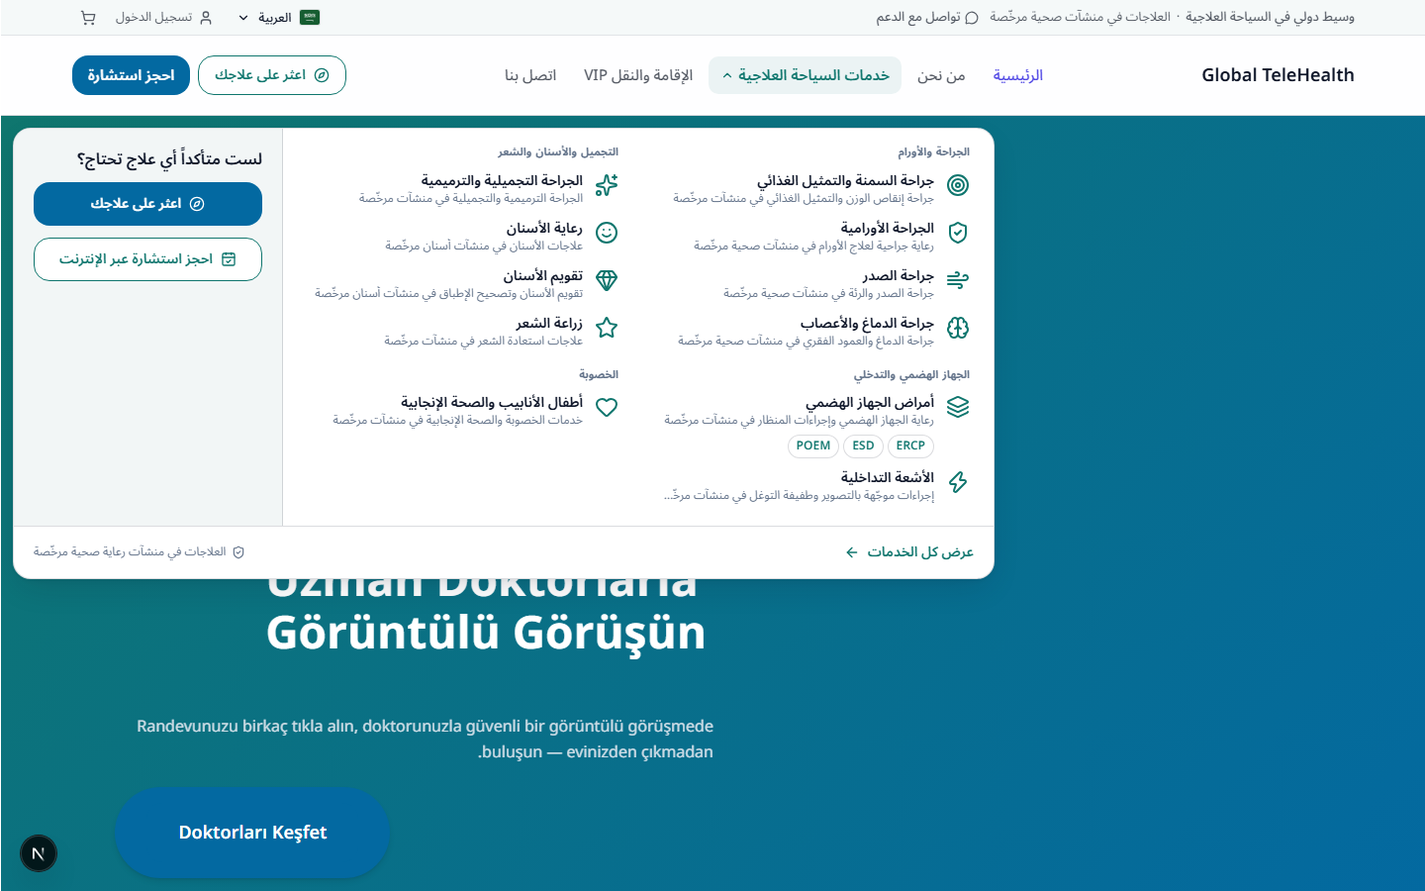
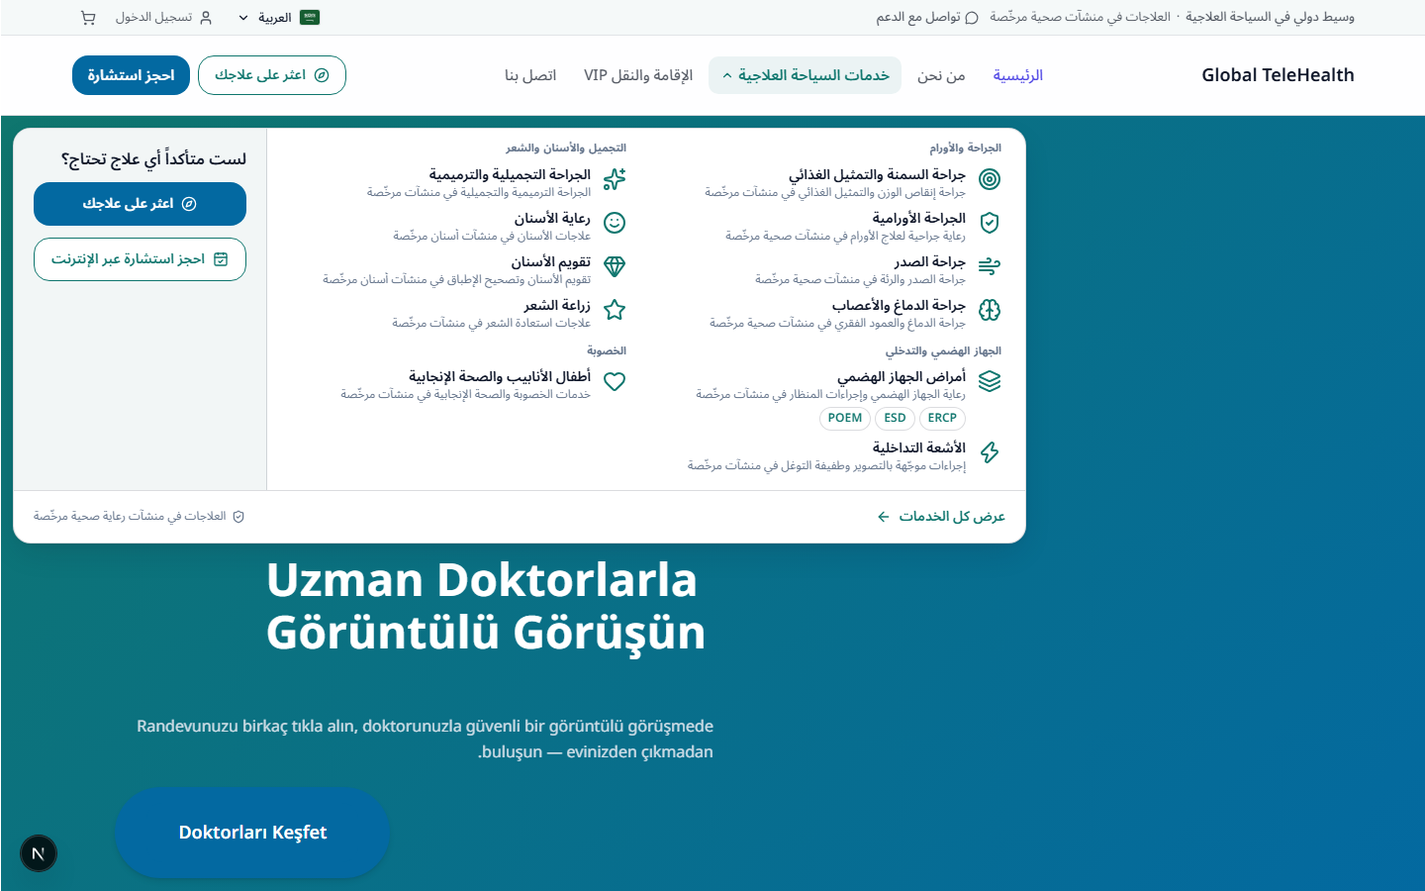
docs(ai): Paket AI raporu, yenilenen ekran goruntuleri ve e2e eklemeleri (1024 px yukseklik, mobil renk)

diff --git a/frontend/tests/e2e/ai-services-menu.spec.ts b/frontend/tests/e2e/ai-services-menu.spec.ts
@@ -254,6 +254,63 @@ test.describe("Mobil (390)", () => {
   });
 });
 
+test.describe("Mega menü — 1024x768 ölçüm ve açıklama satırları", () => {
+  test.use({ viewport: { width: 1024, height: 768 } });
+  for (const [label, path] of [["EN", "/"], ["AR", "/ar"]] as const) {
+    test(`${label}: yükseklik ≤ 520, açıklamalar en çok 2 satır ve kırpılmıyor, viewport'a sığar`, async ({ page }, testInfo) => {
+      await openMegaMenu(page, path);
+      const h = await settledMenuHeight(page);
+      testInfo.annotations.push({ type: `menu-height-${label}-1024`, description: String(h) });
+      console.log(`[AI] mega menü yüksekliği ${label} 1024x768: ${h}px`);
+      expect(h).toBeLessThanOrEqual(520);
+      const box = (await page.getByTestId("services-mega-menu").boundingBox())!;
+      expect(box.x).toBeGreaterThanOrEqual(0);
+      expect(box.x + box.width).toBeLessThanOrEqual(1024);
+      expect(box.y + box.height).toBeLessThanOrEqual(768);
+      const lines = await page.getByTestId("services-item").evaluateAll((els) =>
+        els.map((el) => {
+          const d = el.querySelector("a > span:nth-of-type(2) > span:nth-of-type(2)") as HTMLElement | null;
+          if (!d) return { lines: 0, clipped: false };
+          const lh = parseFloat(getComputedStyle(d).lineHeight);
+          return { lines: Math.round(d.getBoundingClientRect().height / lh), clipped: d.scrollHeight - d.clientHeight > 1 };
+        })
+      );
+      console.log(`[AI] ${label} 1024 açıklama satırları: ${lines.map((l) => l.lines).join(",")}`);
+      expect(lines.every((l) => l.lines >= 1 && l.lines <= 2)).toBe(true);
+      const overflow = await page.getByTestId("services-mega-groups").evaluate((el) => el.scrollHeight - el.clientHeight);
+      expect(overflow).toBeLessThanOrEqual(1);
+    });
+  }
+});
+
+test.describe("Mobil menü — site renkleri", () => {
+  test("'Book a consultation' dolgulu, 'Find your treatment' çerçevesi masaüstü header ile aynı site renginde", async ({ page }) => {
+    test.setTimeout(120_000);
+    await page.setViewportSize({ width: 1440, height: 900 });
+    await page.goto("/");
+    const desk = await page.evaluate(() => {
+      const f = getComputedStyle(document.querySelector('[data-testid="header-find-treatment"]')!);
+      const b = getComputedStyle(document.querySelector('[data-testid="header-book-consultation"]')!);
+      return { findBorder: f.borderTopColor, findText: f.color, bookBg: b.backgroundColor, bookText: b.color };
+    });
+    await page.setViewportSize({ width: 390, height: 844 });
+    await page.reload();
+    await page.getByRole("button", { name: /menu/i }).first().click();
+    await expect(page.getByTestId("mobile-menu-book-consultation")).toBeVisible();
+    const mob = await page.evaluate(() => {
+      const f = getComputedStyle(document.querySelector('[data-testid="mobile-menu-find-treatment"]')!);
+      const b = getComputedStyle(document.querySelector('[data-testid="mobile-menu-book-consultation"]')!);
+      return { findBorder: f.borderTopColor, findText: f.color, bookBg: b.backgroundColor, bookText: b.color };
+    });
+    console.log(`[AI] masaüstü ${JSON.stringify(desk)}\n[AI] mobil ${JSON.stringify(mob)}`);
+    expect(mob.bookBg).not.toBe("rgba(0, 0, 0, 0)");
+    expect(mob.bookBg).toBe(desk.bookBg);
+    expect(mob.bookText).toBe(desk.bookText);
+    expect(mob.findBorder).toBe(desk.findBorder);
+    expect(mob.findText).toBe(desk.findText);
+  });
+});
+
 test.describe("/specialties — Health Tourism Services sayfası", () => {
   test("süreç şeridi (6 adım), gruplu bölümler, kartlarda Book/Request bağlantıları, çipler; Specialist/Türkçe yok", async ({ page }) => {
     await page.setViewportSize({ width: 1440, height: 900 });

diff --git a/frontend/tests/e2e/ai-services-screens.spec.ts b/frontend/tests/e2e/ai-services-screens.spec.ts
@@ -23,8 +23,8 @@ test.describe.configure({ mode: "serial" });
 
 const OUT = path.resolve(__dirname, "../../../docs/prompts/2026-11-02-AI-ekran");
 const LANGS = [
-  { code: "en", prefix: "", topic: /Obesity \/ weight/i, redFlagQuery: "chest pain" },
-  { code: "ar", prefix: "/ar", topic: /./, redFlagQuery: "chest pain" },
+  { code: "en", prefix: "", topic: /Obesity \/ weight/i, noMatch: /Dizziness/i, redFlagQuery: "chest pain" },
+  { code: "ar", prefix: "/ar", topic: /./, noMatch: /./, redFlagQuery: "chest pain" },
 ] as const;
 const DEVICES = [
   { name: "masaustu", width: 1440, height: 900 },
@@ -124,6 +124,17 @@ for (const lang of LANGS) {
         await walkWizardToResult(page);
         await expect(page.getByTestId("matcher-specialty-card").first()).toBeVisible();
         await shot(page, `${prefix}-04-find-your-treatment-sonuc`, true);
+      });
+
+      test("06 Find your treatment eşleşme yok", async ({ page }) => {
+        test.skip(device.name !== "masaustu", "yalnızca masaüstü");
+        test.setTimeout(120_000);
+        await page.goto(`${lang.prefix}/find-your-treatment`);
+        await expect(page.getByTestId("physician-matcher")).toBeVisible();
+        await pickTopicBySearch(page, "dizziness", lang.noMatch);
+        await walkWizardToResult(page);
+        await expect(page.getByTestId("matcher-no-match")).toBeVisible();
+        await shot(page, `${prefix}-06-find-your-treatment-eslesme-yok`, true);
       });
 
       test("05 Find your treatment kırmızı bayrak", async ({ page }) => {

diff --git a/docs/prompts/2026-11-02-AI-RAPOR.md b/docs/prompts/2026-11-02-AI-RAPOR.md
@@ -1,0 +1,235 @@
+# Paket AI — Hizmet menüsü, "Find your treatment", hizmet bazlı randevu (tasarım) — RAPOR (2026-11-02)
+
+- **Dal:** `feat/ai-services-booking-nov02`; temel `origin/master` `2bf4698` (AH Faz 1 dahil). Ana klasörde çalışıldı, worktree açılmadı. Push edilmedi.
+- **Durum:** İş 1 ve İş 2 kodlandı ve test edildi. İş 3 için yalnızca tasarım raporu yazıldı (`2026-11-02-AI-IS3-TASARIM.md`). **Onay bekleniyor.**
+- **Sonraki sıra (kullanıcı, 2026-11-02):**
+  1. AI raporunun onayı.
+  2. AG İş 3'ün (harici toplantı, `f5b6efa`) güncel master üzerine taşınıp tamamlanması. 11 karar geçerli; admin panelinde "Toplantılar" menüsü ve "Yeni toplantı" düğmesi olacak.
+  3. AI İş 3, harici toplantının `meeting-room` bileşeni ve token ucu üzerine kurulacak; tasarım buna göre yazıldı.
+
+## Commit'ler
+
+| Hash | Kapsam |
+|---|---|
+| `9578f4f` | Backend: `Specialty.serviceGroup` ve `shortDescription` (migration, API, admin doğrulama), `rename-service-labels.ts` script'i (hizmet adları, 8 dil, ikon, grup, kısa açıklama, header CTA) |
+| `69e9340` | Frontend: kurumsal mega menü (gruplu; mobilde akordeon), header'da "Find your treatment" ve "Book a consultation", gruplu Health Tourism Services sayfası ve süreç şeridi, Find your treatment (yeni adres, 301, uyarı metni), admin hizmet grubu ve kısa açıklama; İş 3 tasarım raporu |
+| `108d83a` | e2e spec'leri (hizmet menüsü, Find your treatment), ekran görüntüleri, script çıktısı |
+| `1f00c84` | qa bulgularının düzeltmeleri: mobil menü site renk kapsamında açılıyor, açıklamalar 2 satıra sarıyor, "eşleşme yok" ekranında tek koordinatör düğmesi |
+| (bu commit) | Bu rapor, yenilenen ekran görüntüleri, e2e eklemeleri (1024 px yükseklik, mobil renk) |
+
+## Migration SQL (`20261114090000_service_groups`, yalnızca ekleme)
+
+```sql
+ALTER TABLE "specialties" ADD COLUMN "serviceGroup" TEXT,
+ADD COLUMN "shortDescription" TEXT;
+```
+
+- `serviceGroup` şu anahtarlardan birini alır: `surgery-oncology`, `digestive-interventional`, `aesthetic-dental-hair`, `fertility`. Boş bırakılırsa hizmet "Other" altında görünür. Doğrulama API'de; geçersiz değerde 422 döner.
+- `shortDescription` en çok 120 karakter. 8 dil çevirisi mevcut `translations[dil].shortDescription` alanında tutulur.
+
+## İş 1 — "Health Tourism Services" mega menüsü ve hizmet adları
+
+**Masaüstü mega menü:**
+- **Yapı:** Base UI `Menu` (mevcut menüyle aynı kütüphane).
+- **Sol bölüm:** gruplu liste, 2 kolon. Grupların sırası sabit: Surgery & Oncology → Digestive & Interventional → Aesthetic, Dental & Hair → Fertility → Other. Boş grup gösterilmez.
+- **Öğeler:** 24 px ikon, hizmet adı ve kısa açıklama (en çok 2 satır). Alt hizmetler (ERCP · ESD · POEM) üst öğenin altında küçük çipler olarak görünür.
+- **Sağ panel:**
+  - "Not sure which treatment you need?" başlığı;
+  - **"Find your treatment"** düğmesi;
+  - "Book an online consultation" (İş 3 canlıya çıkana kadar talep formuna gider);
+  - ayarlarda tanımlıysa koordinatörün WhatsApp bağlantısı. Ayarlarda telefon kanalı olmadığı için telefon gösterilmez.
+- **Alt şerit:** "View all services →" ve "Treatments at authorized healthcare facilities".
+- **Ölçülen yükseklik** (11 hizmet; açıklamalar 2 satıra sardıktan sonra): **EN 516 px, AR 420 px** (1440×900 ve 1024×768'de aynı). Üst sınır 520 px (`maxHeight`); içerik taşarsa kolonlar kendi içinde kayar.
+  - **Uyarı:** EN'de sınıra yalnızca 4 px pay kalıyor. Bir hizmet ya da bir açıklama satırı daha eklenirse menü içeride kaymaya başlar (taşma olmaz). İstenirse aralıklar biraz daha sıkıştırılabilir ya da açıklamalar kısaltılabilir.
+- **Klavye ve erişilebilirlik:** Enter, Space ve ok tuşları açar; ↑ ↓ Home End ile gezilir; Esc kapatır ve odak tetikleyiciye döner. ARIA rolleri `menu`, `group` ve `menuitem`. RTL'de yalnızca mantıksal yön sınıfları kullanıldı.
+- **Mobil:** Menünün en üstünde "Find your treatment" ve "Book a consultation" düğmeleri; altında grup başına iç akordeon. Açık sayfanın grubu açık gelir.
+- Menüde "Specialist", doktor adı ya da unvan yok (testli).
+
+**Hizmet adları — `backend/scripts/rename-service-labels.ts`:**
+- Kuru çalışma varsayılan; `--confirm=rename-service-labels --operator=…`, `--cta`, yedek ve `--restore`, `--no-revalidate` destekler.
+- `NODE_ENV=production` iken yazmak için `--i-know-this-is-prod` gerekir.
+- Hedef DB'yi yazdırır, idempotenttir, audit kaydı tutar.
+- **Slug ve URL değişmez.** Restore, admin'in sonradan yaptığı değişikliği ezmez.
+
+| Slug | Ziyaretçiye görünen ad | Grup | İkon |
+|---|---|---|---|
+| obesity-and-metabolic-surgery | Obesity & Metabolic Surgery | Surgery & Oncology | Target |
+| surgical-oncology | Surgical Oncology | Surgery & Oncology | ShieldCheck |
+| thoracic-surgery | Thoracic Surgery | Surgery & Oncology | Wind |
+| neurosurgery | Neurosurgery | Surgery & Oncology | Brain |
+| gastroenterology (+ ERCP, ESD, POEM çip) | Gastroenterology | Digestive & Interventional | Layers |
+| interventional-radiology-specialist | **Interventional Radiology** | Digestive & Interventional | Zap |
+| plastic-and-aesthetic-surgery | Plastic & Aesthetic Surgery | Aesthetic, Dental & Hair | Sparkles |
+| dentalcare | Dental Care | Aesthetic, Dental & Hair | Smile |
+| orthodontist | **Orthodontics** | Aesthetic, Dental & Hair | Gem |
+| hair-transplantation | Hair Transplantation | Aesthetic, Dental & Hair | Star |
+| ivf-and-reproductive-health | IVF & Reproductive Health | Fertility | Heart |
+
+- **Kısa açıklamalar:** 8 dilde, tek satır, aracı kuruluş diliyle yazıldı (ör. "Weight-loss and metabolic surgery at authorized facilities"). Fiyat, başarı oranı ya da tıbbi iddia yok.
+- **İkonlar:** Mevcut ikon sözlüğünde tıbbi ikon yok. Seçilenler sözlükteki en ayırt edilebilir ikonlar; istenirse script'teki haritadan değiştirilir.
+- **`--cta` adımı:** Header'daki birincil düğmeyi 8 dilde "Book a consultation" (`/request`) yapar. **Sıra önemli:** `setup-intermediary-nav.ts` düğme etiketini "Appointment"a geri çeker. Nav script'i yeniden çalıştırılacaksa önce o, sonra `--cta` çalıştırılmalı.
+
+**Kuru çalışma çıktısı** (yerel `saas_e2e`; tam çıktı `docs/prompts/2026-11-02-AI-ekran/script-ciktisi.txt`):
+```
+[rename-service-labels] mod=KURU ÇALIŞTIRMA +CTA
+[hedef DB] localhost:5432/saas_e2e (NODE_ENV=development)
+[güncelle] obesity-and-metabolic-surgery: ad "Obesity and Metabolic Surgery" -> "Obesity & Metabolic Surgery"; grup (boş) -> surgery-oncology; ikon Scale -> Target; kısa açıklama; çeviriler (ad + kısa açıklama, 8 dil)
+[güncelle] interventional-radiology-specialist: ad "Interventional Radiology Specialist" -> "Interventional Radiology"; grup (boş) -> digestive-interventional; ikon Stethoscope -> Zap; …
+[güncelle] orthodontist: ad "Orthodontist" -> "Orthodontics"; grup (boş) -> aesthetic-dental-hair; ikon Stethoscope -> Gem; …
+… (11 hizmet)
+[güncelle] header CTA: "Appointment" (/request) -> "Book a consultation" (/request) + 8 dil etiketi
+KURU ÇALIŞMA — hiçbir şey yazılmadı.
+```
+Gerçek çalıştırma 11 hizmeti ve CTA'yı güncelledi. İkinci çalıştırma "Yapılacak değişiklik yok (idempotent)" dedi. Restore eski hâli geri getirdi (`saas_test`).
+
+**Health Tourism Services sayfası (`/specialties`):**
+- Üstte 6 adımlı süreç şeridi (8 dil): Request/Book → Coordinator call → Authorized facility & plan → Travel & stay → Treatment → Aftercare.
+- Grup başına kart bölümleri. Kartta ikon, ad, kısa açıklama, alt hizmet çipleri, "Book" ve "Request" bağlantıları var.
+- İki bağlantı da şimdilik `/request?service=<slug>` adresine gidiyor; İş 3'ten sonra "Book" randevu akışına geçecek.
+- `IntermediaryNotice` bilgi kutusu yerinde.
+
+**Admin:** Uzmanlık formunda "Hizmet grubu" seçimi (boş = Other) ve dil sekmeli "Kısa açıklama" (en çok 120 karakter) var. Alt uzmanlıkta grup seçimi kapalı; grup üst uzmanlıktan gelir.
+
+## İş 2 — "Find your treatment"
+
+- **Adres ve sayfa:**
+  - Yeni adres `/{lang}/find-your-treatment`; eski `find-a-physician` sayfası buraya taşındı.
+  - Mantık AH'de olduğu gibi bölüm önerir.
+  - Sitemap ve `llms.txt` yeni adresi gösterir.
+- **Metinler (8 dil):**
+  - Başlık "Which treatment is right for me?".
+  - Alt başlık "Answer a few questions about your concern and we'll suggest the right health tourism service.".
+  - **Uyarı:** "This tool does not provide a diagnosis or medical advice. Medical assessment and treatment decisions are made by physicians at authorized healthcare facilities." Başlangıçta ve sonuçta görünür.
+- **Akış:** bölge → konu → kimin için → sonuç (1–3 hizmet). Her hizmette "Book an online consultation" ve "Request a consultation" düğmeleri var; ikisi de şimdilik `/request?service=`.
+- **Kırmızı bayrak:** Acil yönlendirme aynen korunuyor.
+- **Eşleşme yok:** "Let a coordinator call me" düğmesi artık bir kez görünüyor (qa bulgusu düzeltildi).
+- **Header:**
+  - İkincil düğme "Find your treatment" (`/find-your-treatment`).
+  - Birincil düğme "Book a consultation" (`/request`; İş 3 canlıya çıkınca randevu akışına geçecek).
+  - Mobil menüde aynı iki düğme en üstte.
+
+## Yönlendirme tablosu
+
+| Eski | Yeni | Kod |
+|---|---|---|
+| `/find-a-physician` (sorgu korunur) | `/find-your-treatment` | 301 |
+| `/en/find-a-physician` | `/find-your-treatment` (varsayılan dil öneki düşer) | 301 |
+| `/de/find-a-physician`, `/ar/…`, `/sr-latn/…` vb. | `/{lang}/find-your-treatment` | 301 |
+| `/find-a-physician/` (sonda eğik çizgi) | önce Next'in 308'i ile `/find-a-physician`, ardından 301 | 308 + 301 |
+| `/tr/find-a-physician` | AH'nin TR 301'i ve ardından yukarıdaki | 301 + 301 |
+
+## Ekran görüntüleri (`docs/prompts/2026-11-02-AI-ekran/`)
+
+EN ve AR; masaüstü 1440 ve mobil 390. Ad biçimi `<dil>-<masaustu|mobil>-NN-<sayfa>.png`:
+- 01: mega menü (mobilde hamburger menüsü, Digestive grubu açık)
+- 02: Health Tourism Services sayfası
+- 03: Find your treatment başlangıç
+- 04: Find your treatment sonuç
+- 05: Find your treatment kırmızı bayrak
+
+01 ve 04, qa düzeltmelerinden sonra yeniden çekildi. Ek olarak 06: Find your treatment "eşleşme yok" ekranı (EN ve AR, masaüstü). Arka plandaki Türkçe ana sayfa başlığı ("Uzman Doktorlarla…") yerel test verisinin CMS içeriği; koddan gelmiyor.
+
+## Testler
+
+- **Backend tam koşu (sıralı):** 242 dosya; **2915 test geçti**, 12 atlandı. Tek düşen önceden bilinen `telehealth-demo-payment` (yerel `.env`).
+  - Yeni testler: `specialty-service-group` 4/4, `rename-service-labels-script` 7/7.
+  - Etkilenenler yeşil: specialty-parent, set-specialty-parents-script, matcher, telehealth-specialty-image, add-specialties, entity-translations, packages-x.
+- **Frontend tam koşu (sıralı):** 256 dosya; **2160/2163**. Düşenler önceden bilinen `edit-blog-post-page` (2) ve `featured-doctors-block` (1).
+  - Yeni testler: ai-services-menu (17), ai-admin-service-group (4), find-your-treatment-redirect, matcher-wizard (8 dil metin ve başlangıç uyarısı).
+  - Türkçe tarama testi yeşil. Typecheck temiz; lint 0 hata.
+  - qa düzeltmelerinden sonraki hedefli koşular aşağıda.
+- **E2E** (`saas_e2e`, headless, `--workers=1`): yeni `ai-services-menu.spec.ts` **26/26 geçti**; setup projesiyle koşuldu, `--timeout=180000` gerekti (ISR beklemesi). Kapsam:
+  - menü: gruplar ve sıra, çipler, sağ panel, alt şerit;
+  - klavye (Enter, ok tuşları, Esc ve odak dönüşü) ve RTL;
+  - yükseklik ≤520 px;
+  - "Specialist" ya da doktor adı yok; slug'lar aynı;
+  - mobil akordeon ve en üstteki iki düğme; header düğmeleri;
+  - `/specialties`: süreç şeridi, gruplu kartlar, Book/Request;
+  - Find your treatment: 301'ler, başlık, en/de/ar uyarısı, sonuçta hizmet ve iki düğme, kırmızı bayrak;
+  - Türkçe metin taraması;
+  - qa düzeltmelerinden sonra eklenenler: 1024×768'de EN/AR yükseklik ve en çok 2 satır açıklama; mobil düğme renklerinin masaüstüyle aynı olması (dolgulu `rgb(3,105,161)`, çerçeve `rgb(15,118,110)`).
+
+  Not: Yerel ortamda yalnızca en, de ve ar açık; diğer 5 dilin uyarı metni birim testinde doğrulandı.
+- **Mevcut e2e'ler:**
+  - `ah-intermediary`: 62/62 geçti.
+  - `ag-specialty-hierarchy`:
+    - 3 test geçti.
+    - Test 4: AH'nin breadcrumb kökü değişikliği nedeniyle bayat ("Specialties" → "Health Tourism Services").
+    - Test 5: AI tasarımı gereği beklenen (kartlarda alt hizmet çipleri).
+    - Test 6: süre aşımı; `--timeout` ile geçiyor.
+    - Test 7: kendi Türkçe giriş yardımcısını kullanıyor.
+  - `blog-z1ek`: AH ve AI metinlerine (hekim, "Find my physician") göre bayat.
+  - Bu spec'lerin bakımı yapılmadı; AI regresyonu bulunmadı.
+- **Kırmızı çizgi kontrolü:** compose, Dockerfile, Nginx, `.env`, LiveKit, `docs/legal/`, `consultation-room.tsx` ve görüşme token'ında değişiklik yok. Slug değişmedi, veri silinmedi.
+
+## Canlıya alma sırası
+
+> Script'ler G/L/T yöntemiyle, tek kullanımlık `node:20-alpine` konteynerinde çalıştırılır (`RUN` tanımı AH raporunda). Her script önce kuru çalıştırılır ve `[hedef DB]` satırı kontrol edilir.
+
+1. Dalı master'a al, `git pull`.
+2. **Migration:** `20261114090000_service_groups`, `prisma@5.22.0 migrate deploy` ile (AH raporundaki komut).
+3. **Derleme:** `docker compose up -d --build --no-deps backend frontend`.
+4. **Hizmet adları ve grupları:**
+   - Önce `RUN scripts/rename-service-labels.ts --cta --no-revalidate` (kuru). "Other" kalan aktif hizmet varsa çıktıda listelenir.
+   - Sonra aynı komut `--confirm=rename-service-labels --operator="Ad Soyad"` ile. `NODE_ENV=production` ise `--i-know-this-is-prod` eklenir.
+   - Yedek yolunu not et.
+5. **Nav script'i yeniden çalıştırılacaksa:** önce `setup-intermediary-nav.ts`, sonra yeniden `rename-service-labels.ts --cta`.
+6. **Admin:** İsteğe bağlı olarak kısa açıklamalar ve gruplar Admin → Uzmanlıklar'dan düzenlenebilir.
+7. **Duman testi:**
+   - menü açılıyor, gruplar ve çipler görünüyor, yükseklik ekranı aşmıyor;
+   - `/specialties` süreç şeridi;
+   - `/find-a-physician` → `/find-your-treatment` (301);
+   - sonuç ekranında iki düğme;
+   - header'da "Find your treatment" ve "Book a consultation".
+
+## İş 3 — Hizmet bazlı randevu (yalnızca tasarım)
+
+Tasarım: `docs/prompts/2026-11-02-AI-IS3-TASARIM.md`. Kod yazılmadı. Kullanıcı kararı gereği **AG İş 3 harici toplantının `meet_` odası, token üreticisi (`lib/meeting-livekit.ts`) ve `meeting-room` / `meeting-stage` bileşenleri** yeniden kullanılıyor; koordinatör ev sahibi, hasta katılımcı.
+
+**Ana kararlar:**
+- **Veri modeli (yalnızca ekleme):**
+  - Yeni tablolar: `ServiceDesk`, `ServiceDeskHours`, `ServiceDeskSpecialty`, `CoordinatorProfile`, `ServiceDeskMember`, `CoordinatorTimeOff`, `ServiceConsultation`. `SiteSettings`'e `serviceBookingEnabled` kolonu eklenir.
+  - `ServiceConsultation`, `ExternalMeeting`'e 1:1 bağlanır. Kişisel veri ve rızalar AH'deki `ConsultationRequest` + `CrmLead` kaydında kalır.
+  - Mevcut `Appointment` tablosu kullanılmaz: `doctorId` alanı zorunlu ve doktora göre tekil. Doktorsuz randevu için gevşetmek "yalnızca ekleme" kuralını aşar.
+- **Koordinatör:** Yeni rol yok. Koordinatör, AG ev sahibi yetkisi olan ve `CoordinatorProfile`'ı bulunan bir panel kullanıcısıdır. Ad etiketi "Patient Coordinator · Ad S."; doktor unvanı yok.
+- **Slot üretimi:**
+  - Mevcut `generateAvailableSlots` masa saatleriyle çalışır.
+  - Koordinatörün diğer görüşmeleri, genel toplantıları ve izinleri çakışma sayılır.
+  - Otomatik atama önce dil uyumuna, sonra o günkü yüke, sonra sıraya göre yapılır.
+- **Hastanın katılımı:**
+  - Misafir hasta: AG misafir bağlantısıyla.
+  - Hesaplı hasta: portaldaki "Join" düğmesinden; yeni uç sahipliği kontrol edip AG'nin kabul mantığını çağırır.
+- **Ödeme:** Yok. Ücretli seçenek masa düzeyinde bir bayrakla tasarlandı; şimdilik kapalı.
+- **Kırmızı çizgi:** `consultation-room.tsx`, doktor görüşme token'ı ve `room_` kuralları değişmez. **İstisna gerekmiyor**, çünkü iki dünya oda öneki ve kimlik öneki düzeyinde ayrı.
+- **AG İş 3'e gereken 8 küçük ek** (§6.4; yalnızca AG'nin kendi dosyalarında):
+  - hizmet görüşmeleri toplantı sınırına sayılmaz;
+  - hizmete bağlı toplantıda AG'nin düzenleme, iptal, bağlantı ve davet uçları 409 döner;
+  - gelecek görüşmesi olan koordinatörün ev sahibi yetkisi geri alınamaz (409);
+  - ev sahibi token adı koordinatör adıyla üretilir;
+  - ortak misafir kabul fonksiyonu (`admitMeetingGuest`);
+  - misafir ön kontrol yanıtına `purpose` alanı;
+  - misafir giriş akışına dışarıdan verilebilen katılım fonksiyonu;
+  - "Toplantılar" listesinde hizmet görüşmesi rozeti.
+- **Bildirimler:**
+  - Admin bildirimi AG altyapısıyla, kişisel veri olmadan gider.
+  - Hasta e-postaları 8 dilde, aracı kuruluş ibaresiyle ve hizmet adı olmadan gider.
+  - 24 saat ve 60 dakika önce hatırlatma gider.
+- **Büyüklük:** AG İş 3 tamamlandıktan sonra yaklaşık 7–8 iş günü; ~39 yeni ve ~26 değişen dosya.
+
+**Onay bekleyen açık sorular (tasarım §14'te 14 soru; önemlileri):**
+- **S1:** Koordinatör kendisine atanmış görüşmede talep mesajını (sağlık verisi olabilir) görsün mü? Öneri: evet; 2FA ve audit ile.
+- **S2:** Koordinatörlerin panel rolü EDITOR mı, MANAGER mı? Öneri: EDITOR.
+- **S4:** Canlı tercüman `meet_` odasına sonraki fazda mı katılsın?
+- **S5:** Sahte rezervasyonla takvim doldurmaya karşı e-posta kodu istensin mi? Öneri: bu turda hayır.
+- **S6:** Misafire hesap açılsın mı? Öneri: hayır.
+- **S8:** Varsayılanlar uygun mu? 30 dakika görüşme, en erken 2 saat sonrası, 30 gün ileri, odada en çok 3 kişi.
+- **S9:** Başta kaç masa açılsın: 4 gruba karşılık 4 masa mı, tek bir genel masa mı?
+- **S12:** 60 dakika hatırlatmasında bağlantı yenilensin mi? Öneri: evet.
+- **S14:** Rıza ve aydınlatma metinleri hukuk onayına gidiyor.
+
+## Notlar ve açık konular
+
+- **Çeviriler:** Hizmet adları, kısa açıklamalar, grup adları ve "Find your treatment" metinlerinin 7 dil çevirisi ajanlar tarafından yazıldı. Ana dil kontrolü önerilir.
+- **Mobilde ayrı düğme yok:** Mobilde "Book an online consultation" için ayrı düğme yok. Header'daki "Book a consultation" aynı yere gidiyor.
+- **Matcher sözlüğündeki Türkçe:** `tr` sözlüğünün dokunulmayan anahtarları Türkçe kaldı. Türkçe ziyaretçiye kapalı, tarama testi yeşil.
+- **Bayat e2e spec'ler:** `ag-specialty-hierarchy` ve `blog-z1ek` AH/AI sonrası metin ve davranış farkları yüzünden düşüyor. E2E bakım işi önerilir.
